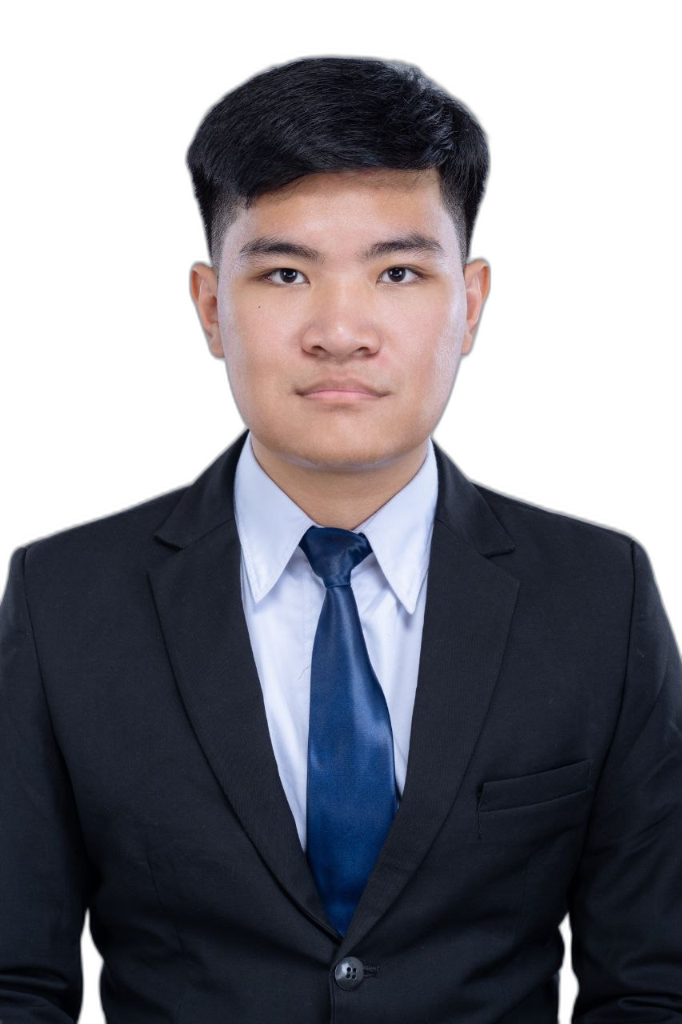
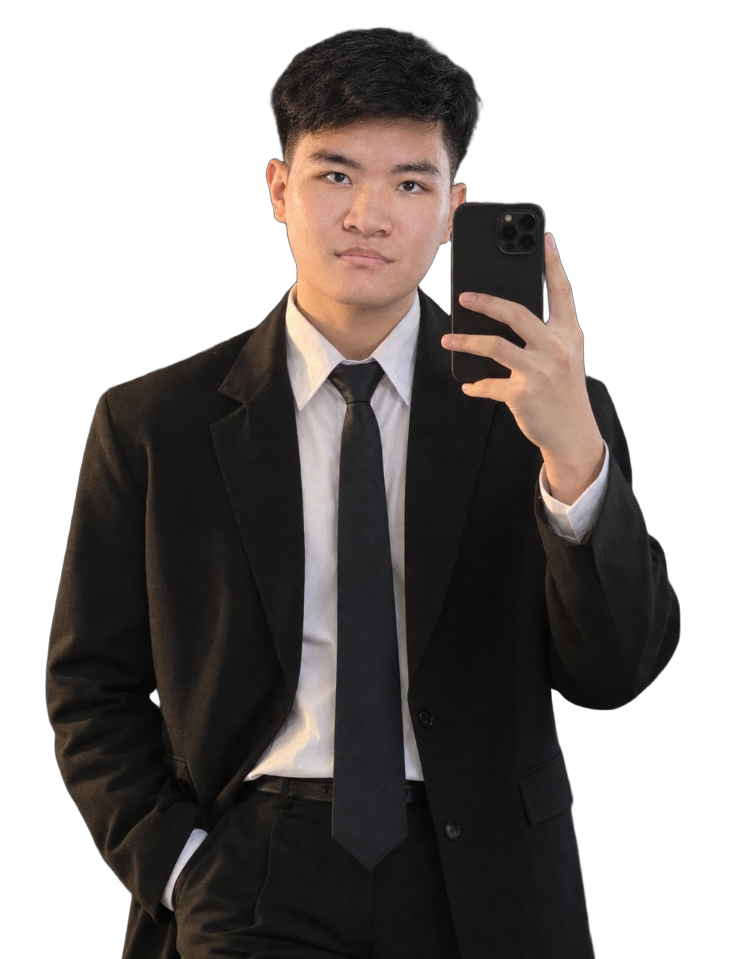
feat: update hero and about profile photos to user suit image

diff --git a/components/Portfolio.jsx b/components/Portfolio.jsx
@@ -484,7 +484,7 @@ export default function Portfolio() {
         </div>
 
         <div className="profile-wrap">
-          <img src="/images/profile.png?v=pro_seavik" alt="Mao Seavik" className="profile-image" draggable={false} />
+          <img src="/images/profile.png?v=suit_2026" alt="Mao Seavik" className="profile-image" draggable={false} />
         </div>
 
         <div className="scroll-indicator">
@@ -809,7 +809,7 @@ export default function Portfolio() {
           <div className="about-profile-card">
             <div className="about-profile-header">
               <div className="about-profile-image-wrapper">
-                <img src="/images/about/profile.png?v=pro_seavik" alt="Profile" className="about-profile-image" draggable={false} />
+                <img src="/images/about/profile.png?v=suit_2026" alt="Profile" className="about-profile-image" draggable={false} />
               </div>
               <div className="about-profile-info">
                 <div className="about-profile-name">
